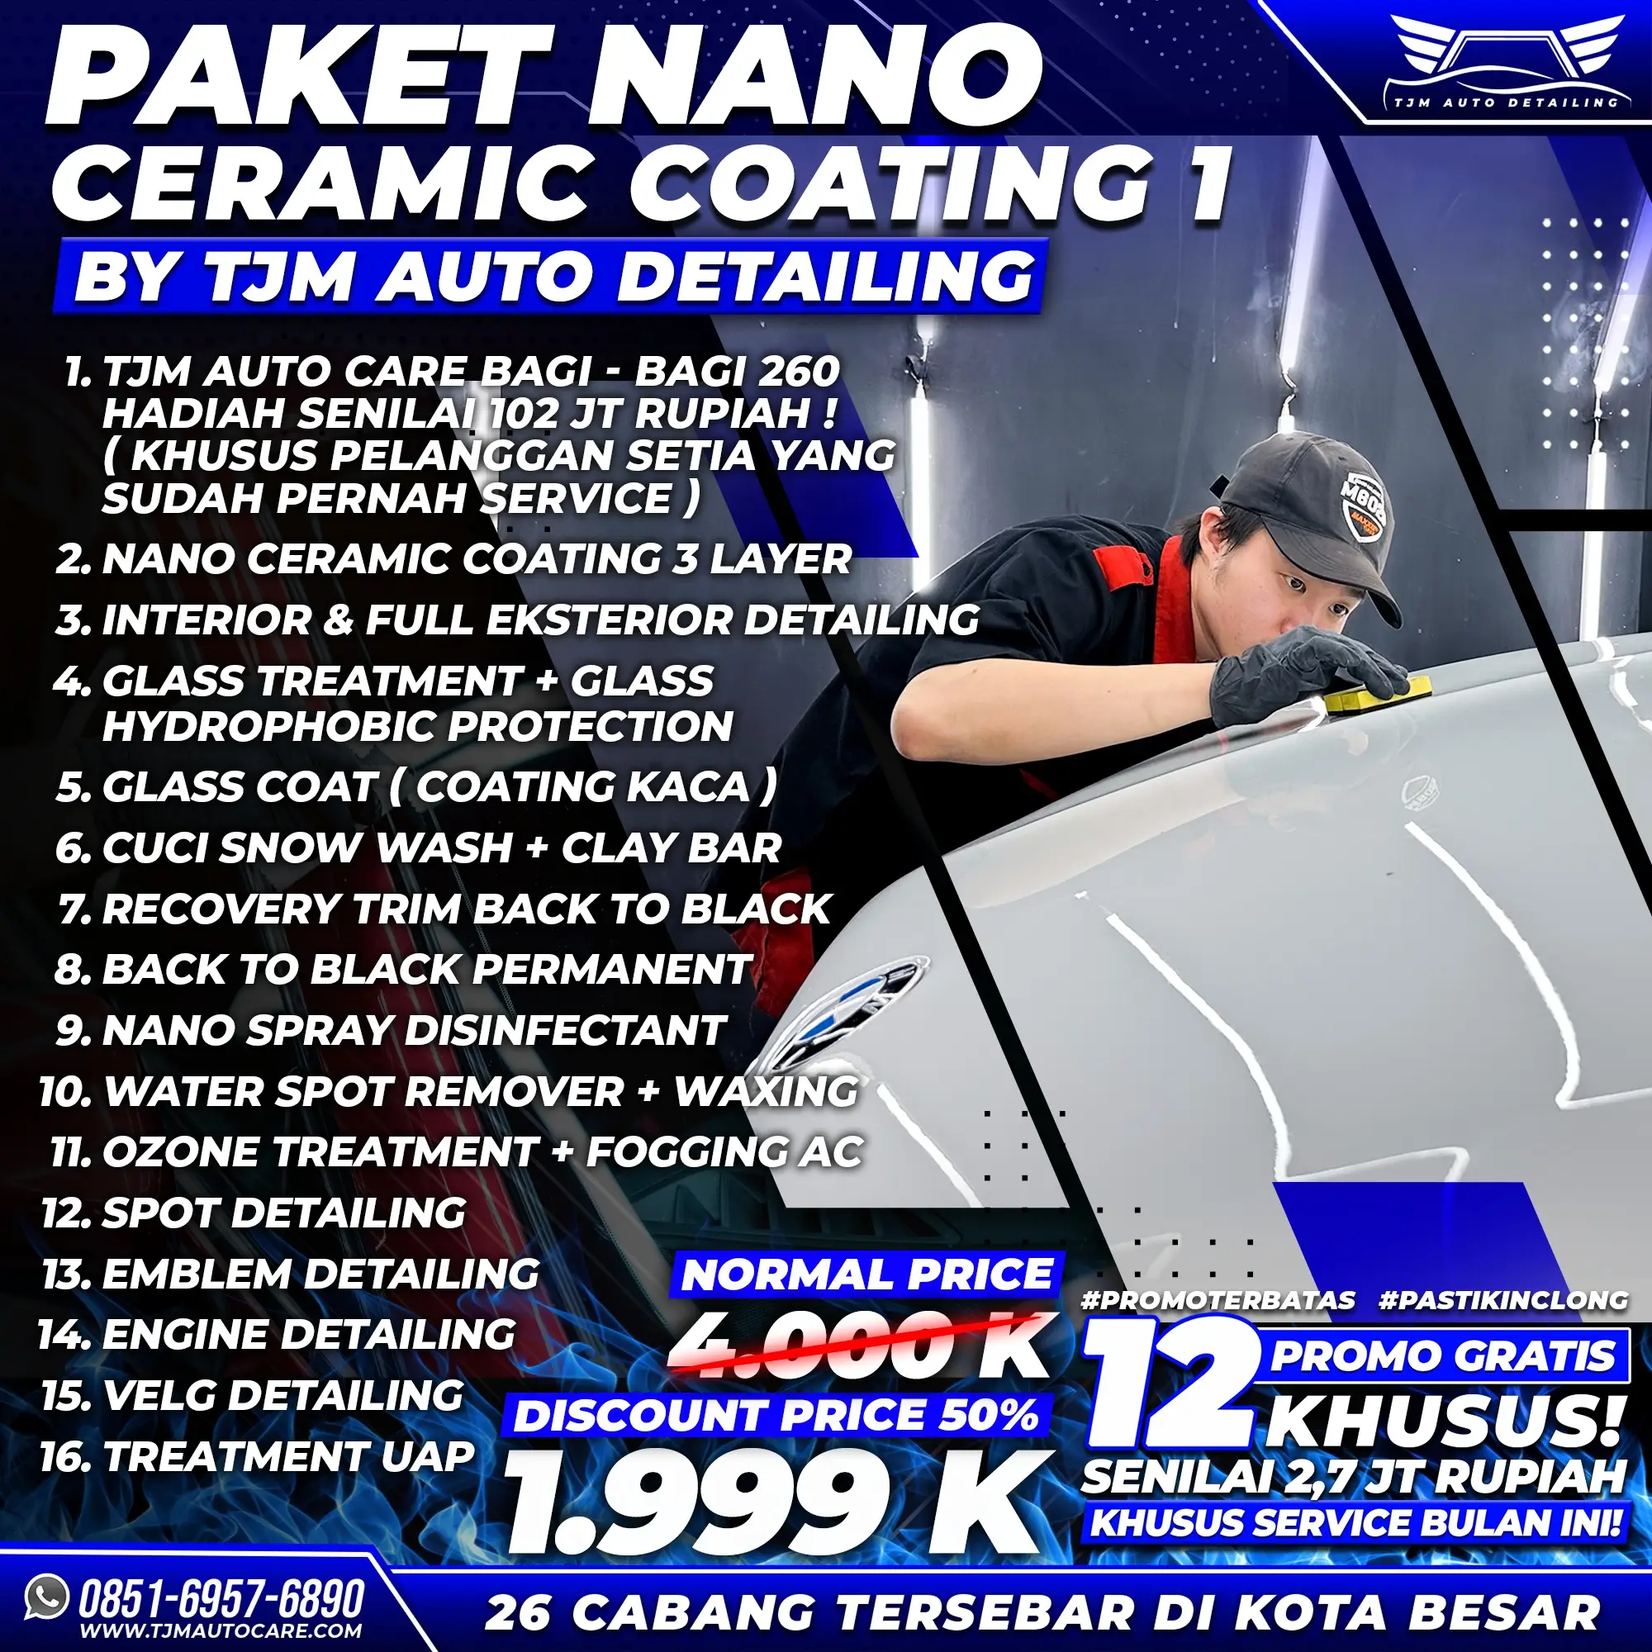
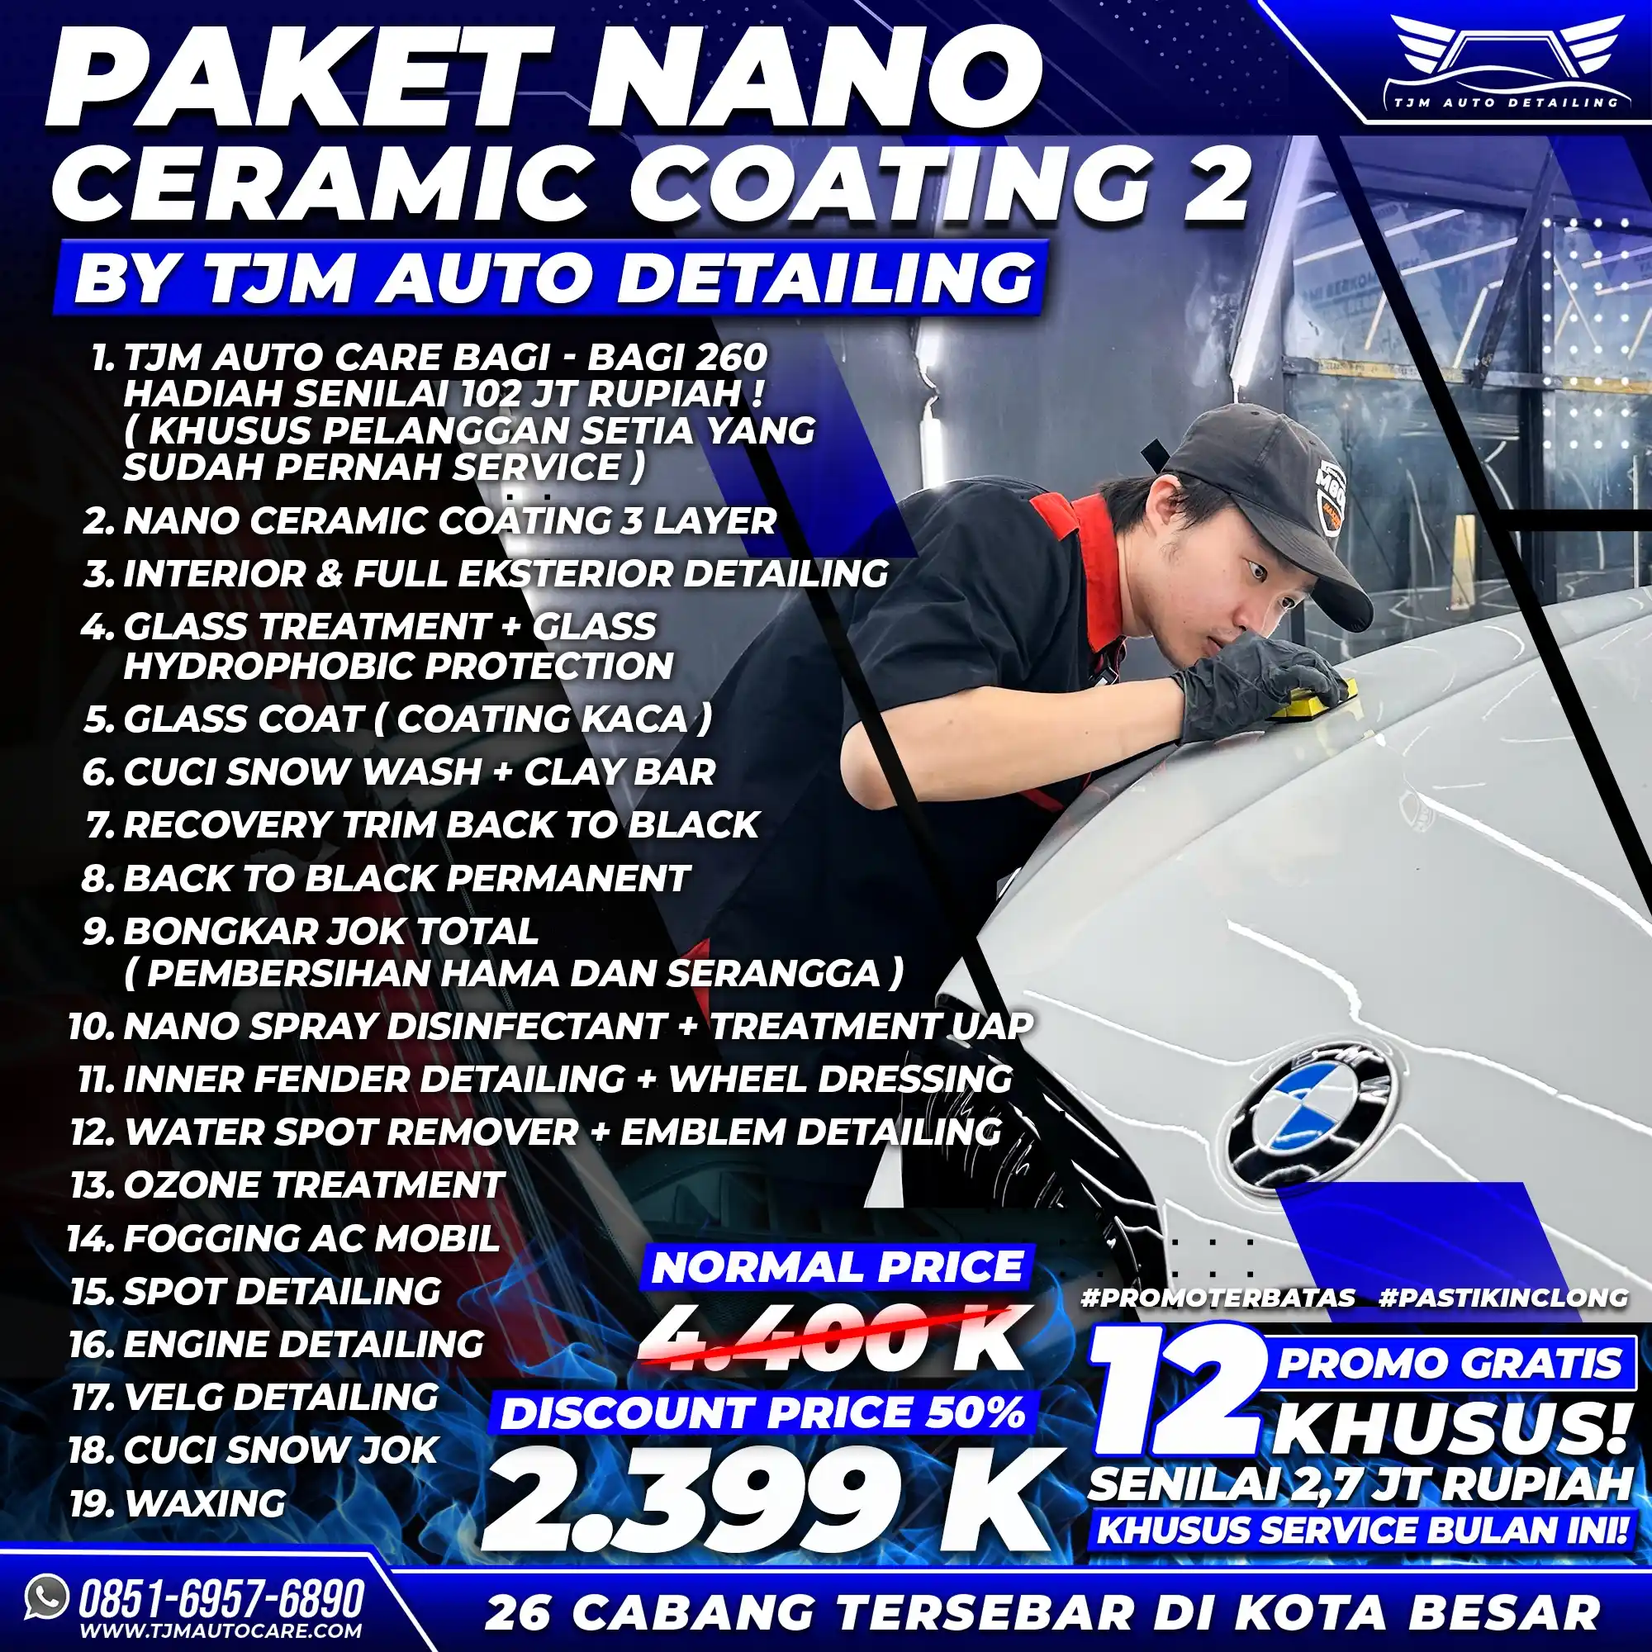
Update Paket v2

diff --git a/app/data/promos.js b/app/data/promos.js
@@ -9,102 +9,102 @@ export const promoData = [
         {
           image: '/image/promo/ac1.webp',
           description:
-            '<b>Diskon Paket Hingga 50%</b><br/>Dapatkan penawaran terbaik untuk berbagai layanan perawatan mobil dari TJM AC Mobil, dengan <b>Diskon Paket hingga 50%</b>. Berlaku untuk semua paket service yang tersedia.',
+            '<b>Diskon Paket Hingga 50%</b><br/>Dapatkan penawaran terbaik untuk berbagai layanan perawatan mobil dari TJM AC Mobil, dengan <b>Diskon Paket hingga 50%</b>. Berlaku untuk semua paket service yang tersedia selama Mega Promo Akhir Tahun.',
         },
         {
           image: '/image/promo/ac2.webp',
           description:
-            '<b>Gratis Inspeksi AC Mobil 20 Titik</b><br/>Manfaatkan layanan pemeriksaan mendalam pada 20 titik sistem AC mobil Anda secara <b>GRATIS</b>, guna memastikan performa dingin maksimal dan kesiapan mobil Anda.',
+            '<b>Gratis Carwash + Claybar + Vacuum Interior</b><br/>Raih layanan <b>GRATIS Cuci Mobil, Claybar, dan Vacuum Interior</b> untuk mobil bersih luar dalam selama Mega Promo Akhir Tahun di TJM AC Mobil.',
         },
         {
           image: '/image/promo/ac3.webp',
           description:
-            '<b>Gratis Voucher Diskon 30% Paket Anti Karat</b><br/>Lindungi mobil Anda dari korosi! Dapatkan <b>Voucher GRATIS</b> untuk diskon <b>30%</b> pada layanan dan paket anti karat mobil profesional.',
+            '<b>Gratis Inspeksi AC Mobil 20 Titik</b><br/>Manfaatkan layanan pemeriksaan mendalam pada 20 titik sistem AC mobil Anda secara <b>GRATIS</b>, guna memastikan performa dingin maksimal dan kesiapan mobil Anda selama Mega Promo Akhir Tahun di TJM AC Mobil.',
         },
         {
           image: '/image/promo/ac4.webp',
           description:
-            '<b>Gratis Carwash + Claybar + Vacuum Interior</b><br/>Raih layanan <b>Cuci Mobil</b>, *Claybar*, dan *Vacuum Interior* secara <b>GRATIS</b> untuk mobil bersih luar dalam.',
+            '<b>Gratis General Check Up Kaki-Kaki 25 Titik</b><br/>Jaga keamanan dan kenyamanan berkendara Anda! Dapatkan <b>GRATIS General Check Up Kaki-Kaki di 25 Titik</b>, termasuk pemeriksaan pada sistem rem dan suspensi selama Mega Promo Akhir Tahun di TJM AC Mobil.',
         },
         {
           image: '/image/promo/ac5.webp',
           description:
-            '<b>Gratis Inspeksi Karat Kolong Mobil</b><br/>Jaga struktur mobil Anda! Nikmati layanan <b>GRATIS Inspeksi</b> menyeluruh kondisi karat di kolong mobil, termasuk area *shockbreaker* dan rangka.',
+            '<b>Gratis Inspeksi Karat Kolong Mobil</b><br/>Jaga struktur mobil Anda! Nikmati layanan <b>GRATIS Inspeksi</b> menyeluruh kondisi karat di kolong mobil, termasuk area shockbreaker dan rangka selama Mega Promo Akhir Tahun di TJM AC Mobil.',
         },
         {
           image: '/image/promo/ac6.webp',
           description:
-            '<b>Gratis General Check Up Kaki-Kaki 25 Titik</b><br/>Jaga keamanan dan kenyamanan berkendara Anda! Dapatkan <b>GRATIS General Check Up Kaki-Kaki di 25 Titik</b>, termasuk pemeriksaan pada sistem rem dan suspensi.',
+            '<b>Gratis Inspeksi Tune Up di 65 Titik</b><br/>Pastikan mesin mobil Anda selalu prima dan efisien! Dapatkan <b>GRATIS Inspeksi Tune Up di 65 Titik</b>, yang mencakup pemeriksaan mendalam pada komponen mesin vital selama Mega Promo Akhir Tahun di TJM AC Mobil.',
         },
         {
           image: '/image/promo/ac7.webp',
           description:
-            '<b>Gratis Inspeksi Tune Up di 65 Titik</b><br/>Pastikan mesin mobil Anda selalu prima dan efisien! Dapatkan <b>GRATIS Inspeksi Tune Up di 65 Titik</b>, yang mencakup pemeriksaan mendalam pada komponen mesin vital.',
+            '<b>Gratis Vaporizer Steamer Uap AC</b><br/>Segarkan kembali kualitas udara di dalam kabin mobil Anda! Nikmati layanan <b>GRATIS Vaporizer Steamer Uap AC</b> yang efektif membunuh bakteri dan menghilangkan bau tak sedap dari sistem AC selama Mega Promo Akhir Tahun di TJM AC Mobil.',
         },
         {
           image: '/image/promo/ac8.webp',
           description:
-            '<b>Gratis Glass Treatment / Nano Burn Coating Headlamp</b><br/>Tingkatkan visibilitas berkendara Anda! Dapatkan <b>GRATIS Glass Treatment</b> untuk kaca mobil atau <b>Nano Burn Coating Headlamp</b> untuk mengembalikan kejernihan lampu depan mobil Anda.',
+            '<b>Gratis Konsultasi Hukum & Bisnis</b><br/>Untuk Anda yang sedang membangun bisnis, tersedia layanan <b>Konsultasi Hukum dan Bisnis GRATIS</b> dengan pakar profesional, yang siap membantu mengurai masalah legal dan strategi usaha Anda selama Mega Promo Akhir Tahun di TJM AC Mobil.',
         },
         {
           image: '/image/promo/ac9.webp',
           description:
-            '<b>Gratis Vaporizer Steamer Uap AC</b><br/>Segarkan kembali kualitas udara di dalam kabin mobil Anda! Nikmati layanan <b>GRATIS Vaporizer Steamer Uap AC</b> yang efektif membunuh bakteri dan menghilangkan bau tak sedap dari sistem AC.',
+            '<b>Gratis Konsultasi Bisnis Ekspor - Impor</b><br/>Manfaatkan jaringan TJM AC Mobil! Dapatkan layanan <b>Konsultasi Bisnis Ekspor-Impor GRATIS</b> dengan tim ahli, yang akan membantu Anda mengembangkan peluang bisnis di skala internasional selama Mega Promo Akhir Tahun.',
         },
         {
           image: '/image/promo/ac10.webp',
           description:
-            '<b>Gratis Konsultasi Bisnis Ekspor - Impor</b><br/>Manfaatkan jaringan TJM AC Mobil! Dapatkan layanan <b>Konsultasi Bisnis Ekspor-Impor GRATIS</b> dengan tim ahli, yang akan membantu Anda mengembangkan peluang bisnis di skala internasional.',
+            '<b>Gratis Konsultasi Ekspor - Impor</b><br/>Manfaatkan kesempatan <b>GRATIS Konsultasi Ekspor-Impor</b> untuk mendapatkan arahan strategis dan peluang mengembangkan bisnis Anda di pasar global selama Mega Promo Akhir Tahun di TJM AC Mobil.',
         },
         {
           image: '/image/promo/ac11.webp',
           description:
-            '<b>Gratis Konsultasi Ekspor - Impor</b><br/>Manfaatkan kesempatan <b>GRATIS Konsultasi Ekspor-Impor</b> untuk mendapatkan arahan strategis dan peluang mengembangkan bisnis Anda di pasar global.',
+            '<b>Gratis VIP Member Card + Sticker Membership</b><br/>Jadilah pelanggan istimewa TJM Auto Care! Nikmati <b>GRATIS</b> mendapatkan <b>VIP Member Card</b> beserta stiker eksklusif, yang memberikan Anda berbagai keuntungan dan layanan prioritas selama Mega Promo Akhir Tahun di TJM AC Mobil.',
         },
         {
           image: '/image/promo/ac12.webp',
           description:
-            '<b>Gratis Konsultasi Hukum & Bisnis</b><br/>Untuk Anda yang sedang membangun bisnis, tersedia layanan <b>Konsultasi Hukum dan Bisnis GRATIS</b> dengan pakar profesional, yang siap membantu mengurai masalah legal dan strategi usaha Anda.',
+            '<b>Gratis Rubberized Undercoat</b><br/>Berikan perlindungan ekstra pada kolong mobil Anda dari benturan dan karat! Nikmati layanan <b>Rubberized Undercoat GRATIS</b> untuk melapisi kolong mobil dengan bahan karet pelindung selama Mega Promo Akhir Tahun di TJM AC Mobil.',
         },
         {
           image: '/image/promo/ac13.webp',
           description:
-            '<b>Gratis VIP Member Card + Sticker Membership</b><br/>Jadilah pelanggan istimewa TJM Auto Care! Nikmati <b>GRATIS</b> mendapatkan <b>VIP Member Card</b> beserta stiker eksklusif, yang memberikan Anda berbagai keuntungan dan layanan prioritas.',
+            '<b>Gratis Voucher Diskon 30% Paket Anti Karat</b><br/>Lindungi kolong mobil Anda dari karat! Dapatkan <b>Voucher GRATIS</b> diskon <b>30%</b> untuk layanan Paket Anti Karat selama Mega Promo Akhir Tahun di TJM AC Mobil.',
         },
         {
           image: '/image/promo/ac14.webp',
           description:
-            '<b>Gratis Rubberized Undercoat</b><br/>Berikan perlindungan ekstra pada kolong mobil Anda dari benturan dan karat! Nikmati layanan <b>Rubberized Undercoat GRATIS</b> untuk melapisi kolong mobil dengan bahan karet pelindung.',
+            '<b>Gratis Voucher Diskon 50% Nano Ceramic Coating</b><br/>Lindungi cat mobil Anda dengan teknologi terkini! Dapatkan <b>Voucher GRATIS</b> yang memberikan diskon hingga <b>50%</b> untuk layanan Nano Ceramic Coating premium, agar mobil Anda tampak mengilap dan terlindungi maksimal selama Mega Promo Akhir Tahun di TJM AC Mobil.',
         },
         {
           image: '/image/promo/ac15.webp',
           description:
-            '<b>Gratis Voucher Diskon 50% Nano Ceramic Coating</b><br/>Lindungi cat mobil Anda dengan teknologi terkini! Dapatkan <b>Voucher GRATIS</b> yang memberikan diskon hingga <b>50%</b> untuk layanan Nano Ceramic Coating premium, agar mobil Anda tampak mengilap dan terlindungi maksimal.',
+            '<b>Gratis Voucher Detailing Interior / Eksterior</b><br/>Percantik tampilan mobil Anda luar dan dalam! Segera dapatkan <b>Voucher GRATIS Detailing Interior atau Eksterior</b> untuk mengembalikan kilau bodi mobil dan kebersihan kabin selama Mega Promo Akhir Tahun di TJM AC Mobil.',
         },
         {
           image: '/image/promo/ac16.webp',
           description:
-            '<b>Gratis Voucher Detailing Interior / Eksterior</b><br/>Percantik tampilan mobil Anda luar dan dalam! Segera dapatkan <b>Voucher GRATIS Detailing Interior atau Eksterior</b> untuk mengembalikan kilau bodi mobil dan kebersihan kabin.',
+            '<b>Gratis Voucher Engine Detailing</b><br/>Jaga performa mesin sekaligus kebersihannya! Nikmati <b>Voucher GRATIS Engine Detailing</b> untuk membersihkan ruang mesin dari kotoran dan debu, membuat mesin terlihat seperti baru selama Mega Promo Akhir Tahun di TJM AC Mobil.',
         },
         {
           image: '/image/promo/ac17.webp',
           description:
-            '<b>Gratis Voucher Engine Detailing</b><br/>Jaga performa mesin sekaligus kebersihannya! Nikmati <b>Voucher GRATIS Engine Detailing</b> untuk membersihkan ruang mesin dari kotoran dan debu, membuat mesin terlihat seperti baru.',
+            '<b>Gratis Glass Treatment / Nano Burn Coating Headlamp</b><br/>Tingkatkan visibilitas dan perlindungan lampu mobil Anda! Nikmati layanan <b>GRATIS Glass Treatment</b> atau <b>Nano Burn Coating Headlamp</b> selama Mega Promo Akhir Tahun di TJM AC Mobil.',
         },
         {
           image: '/image/promo/ac18.webp',
           description:
-            '<b>Gratis Voucher Service Potongan Harga (TJM Peduli)</b><br/>Berpartisipasi dalam aksi sosial! Dapatkan <b>Voucher Service Potongan Harga GRATIS</b>, di mana selisih harga akan disalurkan ke program amal <b>TJM Peduli</b>.',
+            '<b>Promo Voucher Service Potongan Harga (TJM Peduli)</b><br/>Berpartisipasi dalam aksi sosial! Dapatkan <b>Voucher Service Potongan Harga GRATIS</b>, di mana selisih harga akan disalurkan ke program amal <b>TJM Peduli</b> selama Mega Promo Akhir Tahun di TJM AC Mobil.',
         },
         {
           image: '/image/promo/ac19.webp',
           description:
-            '<b>Gratis Voucher Diskon 20% Sentinel Coffee dan Bistro</b><br/>Sambil menunggu mobil Anda dirawat, manjakan diri Anda! Dapatkan <b>Voucher GRATIS</b> diskon <b>20%</b> untuk menikmati hidangan dan kopi di <b>Sentinel Coffee dan Bistro</b>.',
+            '<b>Gratis Voucher Diskon 20% Sentinel Coffee dan Bistro</b><br/>Sambil menunggu mobil Anda dirawat, manjakan diri Anda! Dapatkan <b>Voucher GRATIS</b> diskon <b>20%</b> untuk menikmati hidangan dan kopi di <b>Sentinel Coffee dan Bistro</b> selama Mega Promo Akhir Tahun di TJM AC Mobil.',
         },
         {
           image: '/image/promo/ac20.webp',
           description:
-            '<b>Gratis Wheel Dressing + Wiper Fluid</b><br/>Pastikan penampilan mobil Anda sempurna hingga ke detail terkecil! Nikmati layanan <b>GRATIS Wheel Dressing</b> untuk ban yang mengilap dan *Wiper Fluid* agar kaca depan selalu bersih.',
+            '<b>Gratis Wheel Dressing + Wiper Fluid</b><br/>Pastikan penampilan mobil Anda sempurna hingga ke detail terkecil! Nikmati layanan <b>GRATIS Wheel Dressing</b> untuk ban yang mengilap dan <b>Wiper Fluid</b> agar kaca depan selalu bersih selama Mega Promo Akhir Tahun di TJM AC Mobil.',
         },
       ],
     },

diff --git a/app/data/packages.js b/app/data/packages.js
@@ -787,9 +787,9 @@ export const packagesData = {
       {
         title: 'PAKET NANO BURN COATING HEADLAMP',
         detailSlug: 'nano-burn-headlamp',
-        image: '/image/paket/nano1.webp',
+        image: '/image/paket/detailing9.webp',
         description: [
-          'Paket Nano Burn Coating Headlamp dari TJM Auto Detailing adalah layanan pelapisan premium yang mengembalikan kejernihan lampu mobil yang kusam dan menguning agar terlihat seperti baru dan meningkatkan keamanan berkendara, kini ditawarkan dengan diskon 50% menjadi hanya Rp 399.000.',
+          'Paket pelapisan premium headlamp untuk mengembalikan kejernihan, menghilangkan warna kuning pada mika lampu, membuat headlamp tampak seperti baru, meningkatkan keamanan berkendara, dan bonus poles setelah nano burn.',
         ],
         subtitle: 'PAKET NANO BURN COATING HEADLAMP',
         normalPrice: 'IDR 800K',
@@ -798,9 +798,9 @@ export const packagesData = {
       {
         title: 'PAKET NANO CERAMIC COATING 1',
         detailSlug: 'nano-ceramic-1',
-        image: '/image/paket/nano2.webp',
+        image: '/image/paket/nano1.webp',
         description: [
-          'Paket perlindungan cat dasar dengan 3 layer Nano Ceramic Coating. Termasuk detailing interior & eksterior, glass treatment + hydrophobic, glass coat, cuci snow + clay bar, recovery trim, back to black permanent, dan layanan detailing esensial lainnya untuk kilau maksimal.',
+          'Paket perlindungan cat mobil dengan 3 layer nano ceramic coating, detailing interior & eksterior, glass treatment, cuci snow wash + clay bar, recovery trim, back to black, nano spray disinfectant, water spot remover, waxing, ozone treatment, fogging AC, spot & emblem detailing, engine & velg detailing, serta treatment uap.',
         ],
         subtitle: 'PAKET NANO CERAMIC COATING 1',
         normalPrice: 'IDR 4.000K',
@@ -809,9 +809,9 @@ export const packagesData = {
       {
         title: 'PAKET NANO CERAMIC COATING 2',
         detailSlug: 'nano-ceramic-2',
-        image: '/image/paket/nano3.webp',
+        image: '/image/paket/nano2.webp',
         description: [
-          'Paket perlindungan tingkat lanjut yang mencakup semua layanan di Paket 1, ditambah dengan bongkar jok total untuk pembersihan hama & serangga, inner fender detailing, dan wheel dressing untuk hasil yang lebih detail dan menyeluruh.',
+          'Paket perlindungan cat mobil dengan 3 layer nano ceramic coating, detailing interior & eksterior, glass treatment, cuci snow wash + clay bar, recovery trim, back to black, nano spray disinfectant, treatment uap, bongkar jok total, inner fender detailing, wheel dressing, water spot remover, emblem & spot detailing, engine & velg detailing, fogging AC, cuci snow jok, dan waxing.',
         ],
         subtitle: 'PAKET NANO CERAMIC COATING 2',
         normalPrice: 'IDR 4.400K',
@@ -820,9 +820,9 @@ export const packagesData = {
       {
         title: 'PAKET SUPER KOMPLIT NANO CERAMIC COATING',
         detailSlug: 'super-komplit-nano-ceramic',
-        image: '/image/paket/nano4.webp',
+        image: '/image/paket/nano3.webp',
         description: [
-          'Paket proteksi dan detailing paling lengkap. Mencakup semua layanan di Paket 2, ditambah dengan Nano Burn Coating Headlamp, back to black permanent yang lebih mendalam, velg detailing, cuci snow jok, dan spot detailing untuk kesempurnaan tampilan kendaraan Anda.',
+          'Paket paling lengkap dengan 3 layer nano ceramic coating, full detailing interior & eksterior, glass treatment, cuci snow wash + clay bar, recovery trim, back to black, nano spray disinfectant, water spot remover, waxing, inner fender detailing, nano burn coating headlamp, engine & velg detailing, wheel dressing, treatment uap, cuci snow jok, bongkar jok total, ozone treatment, fogging, emblem & spot detailing.',
         ],
         subtitle: 'PAKET SUPER KOMPLIT NANO CERAMIC COATING',
         normalPrice: 'IDR 5.600K',

diff --git a/app/components/Header.js b/app/components/Header.js
@@ -13,17 +13,17 @@ const menuData = [
   {
     text: 'PROMO PAKET SERVICE',
     subMenu: [
+      { text: 'PAKET SPECIAL', href: '/paket/special' },
       { text: 'PAKET MEMBER', href: '/paket/member' },
+      { text: 'PAKET SUPER HEMAT', href: '/paket/super-hemat' },
+      { text: 'PAKET COMBO SUPER KOMPLIT', href: '/paket/combo-super-komplit' },
       { text: 'PAKET KAKI - KAKI', href: '/paket/kaki-kaki' },
       { text: 'PAKET COMBO KAKI - KAKI', href: '/paket/combo-kaki-kaki' },
-      { text: 'PAKET COMBO SUPER KOMPLIT', href: '/paket/combo-super-komplit' },
-      { text: 'PAKET SUPER HEMAT', href: '/paket/super-hemat' },
-      { text: 'PAKET STEERING', href: '/paket/steering' },
       { text: 'PAKET RACKSTEER', href: '/paket/racksteer' },
-      { text: 'PAKET DIESEL', href: '/paket/diesel' },
-      { text: 'PAKET SUSPENSION', href: '/paket/suspension' },
       { text: 'PAKET SHOCKBREAKER', href: '/paket/shockbreaker' },
-      { text: 'PAKET SPECIAL', href: '/paket/special' },
+      { text: 'PAKET STEERING', href: '/paket/steering' },
+      { text: 'PAKET SUSPENSION', href: '/paket/suspension' },
+      { text: 'PAKET DIESEL', href: '/paket/diesel' },
       { text: 'PAKET OVERHAUL ENGINE', href: '/paket/overhaul-engine' },
       { text: 'PAKET AC MOBIL', href: '/paket/ac-mobil' },
       { text: 'PAKET ANTI KARAT', href: '/paket/anti-karat' },
@@ -35,7 +35,7 @@ const menuData = [
     text: 'PROMO BULAN INI',
     subMenu: [
       {
-        text: '30 PROMO GRATIS SENILAI 7 JT',
+        text: '30 PROMO GRATIS SENILAI 8 JT',
         href: '/promo/auto-care',
       },
       {
@@ -56,10 +56,10 @@ const menuData = [
       },
     ],
   },
-  {
-    text: 'PROMO PAKET MEMBER',
-    subMenu: [{ text: 'PAKET MEMBER TAHUNAN KOMPLIT', href: '/member' }],
-  },
+  // {
+  //   text: 'PROMO PAKET MEMBER',
+  //   subMenu: [{ text: 'PAKET MEMBER TAHUNAN KOMPLIT', href: '/member' }],
+  // },
   {
     text: 'PROMO TEBUS MURAH',
     subMenu: [
